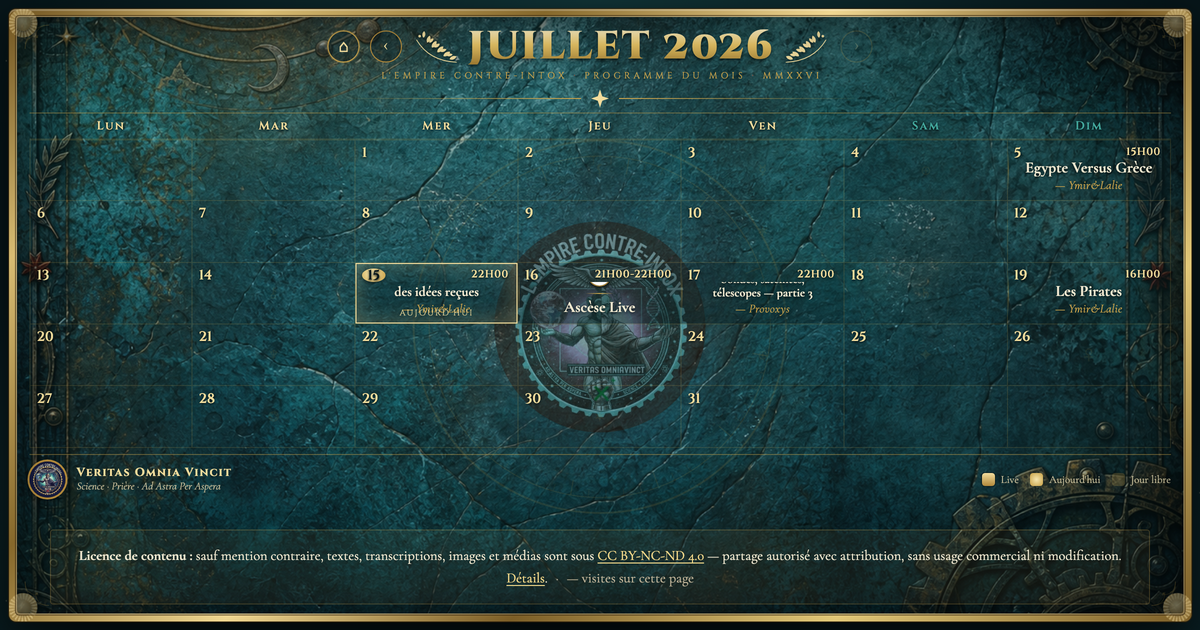
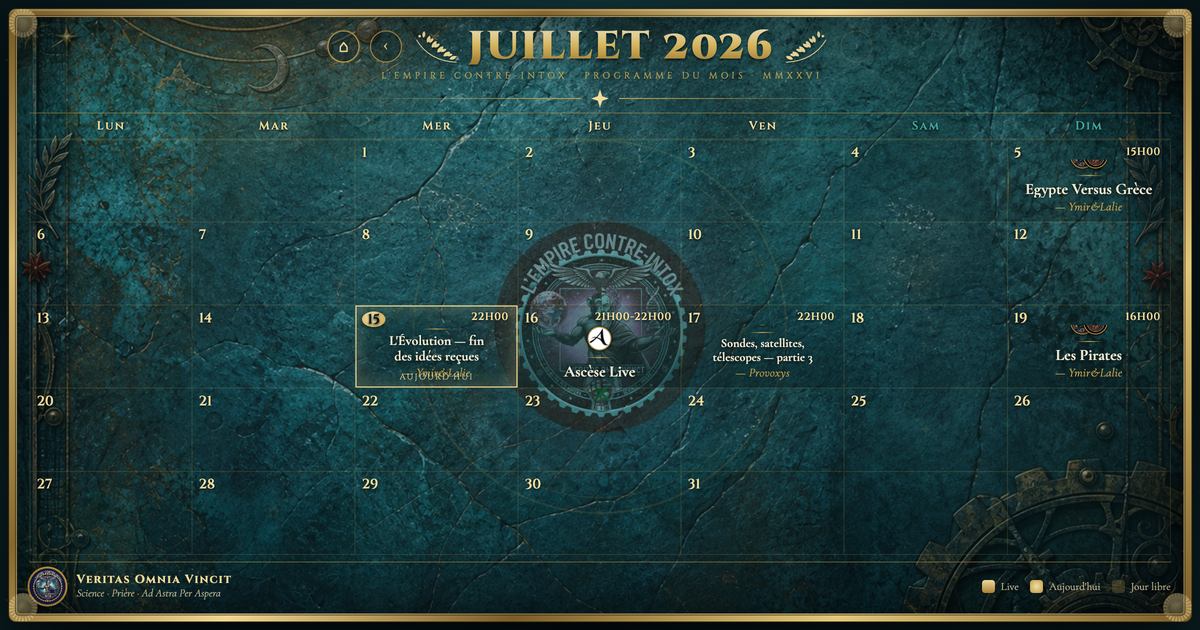
Optimiser l'espace du calendrier

diff --git a/index.html b/index.html
@@ -209,7 +209,7 @@
   .filigree.bl{bottom:6px;left:6px;transform:scaleY(-1)}
   .filigree.br{bottom:6px;right:6px;transform:scale(-1,-1)}
 
-  .stage{position:relative;z-index:3;display:flex;flex-direction:column;height:100%}
+  .stage{position:relative;z-index:3;display:flex;flex-direction:column;height:100%;min-height:0}
 
   /* ============ HEADER ============ */
   header.cal-head{text-align:center;flex:0 0 auto}
